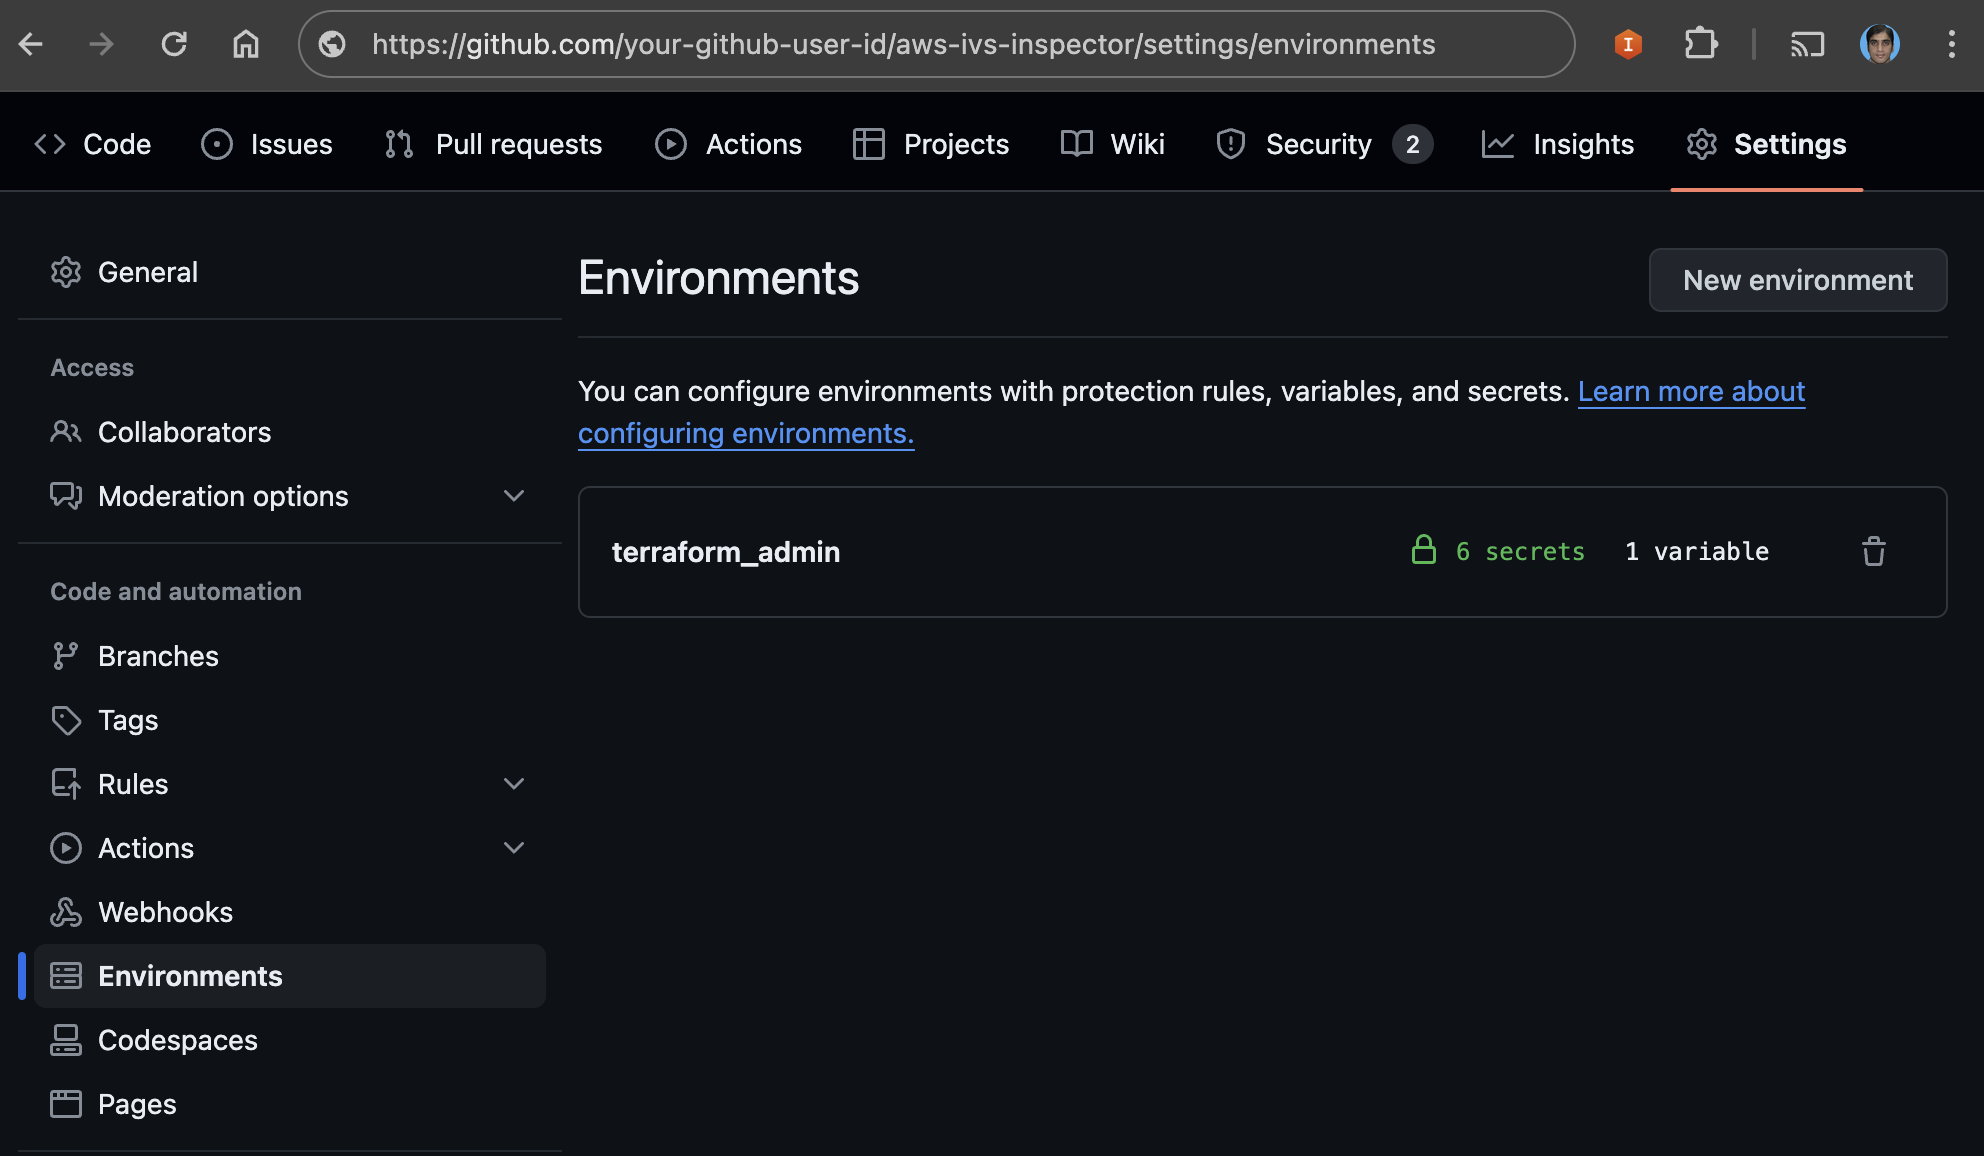
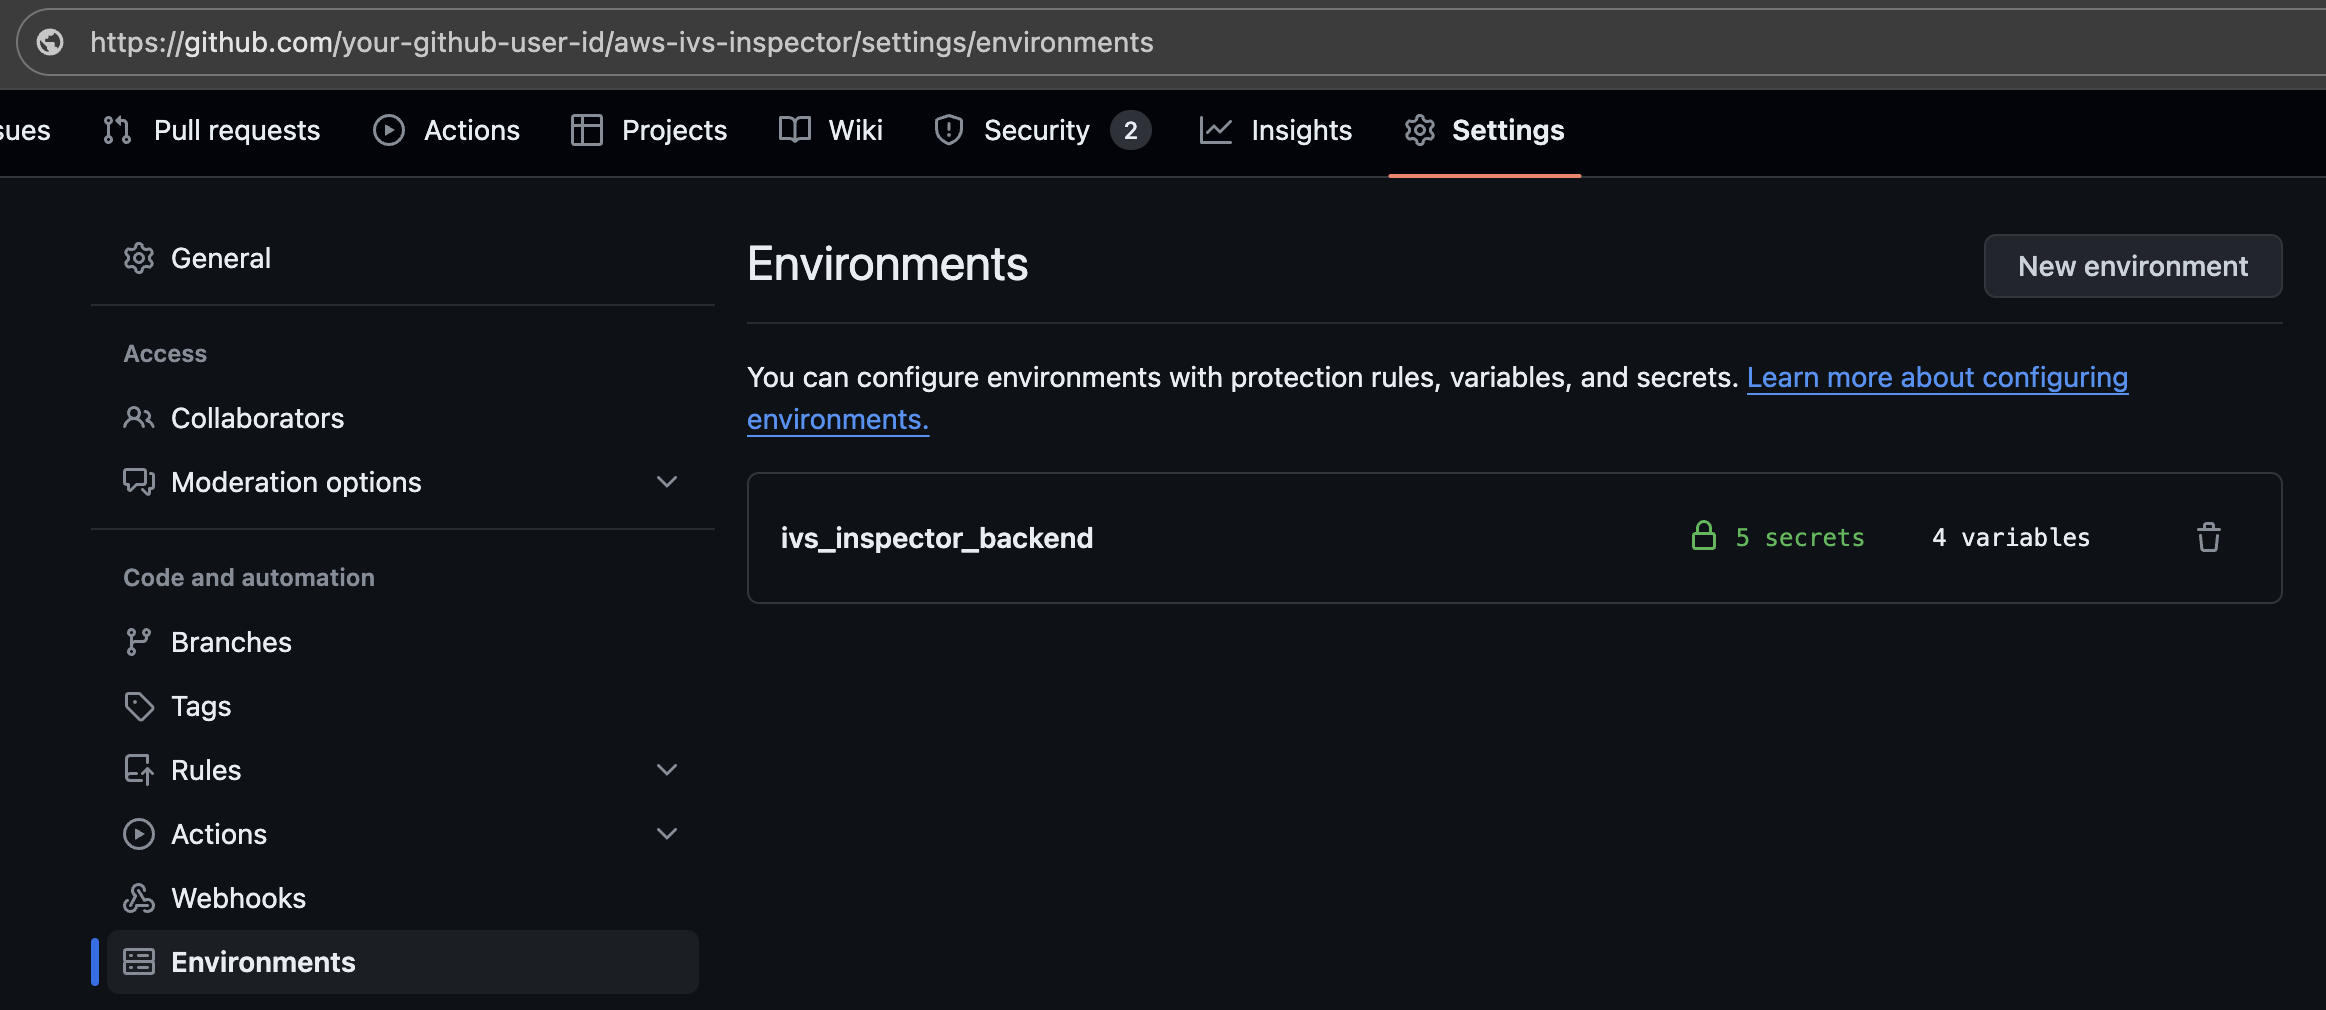
Readme updated - 1

diff --git a/web-application/src/pages/Settings.vue b/web-application/src/pages/Settings.vue
@@ -7,7 +7,7 @@
         </q-item-section>
 
         <q-item-section class="col-12 col-sm-auto">
-          <q-item-label> Setting CCV </q-item-label>
+          <q-item-label> Coming Soon </q-item-label>
         </q-item-section>
       </div>
       <q-separator />

diff --git a/README.md b/README.md
@@ -10,7 +10,7 @@
 
 1.) AWS Account & Permissions: You'll need an AWS account and the IAM user permissions with the `AdministratorAccess` policy required
 
-2.) Create an S3 bucket in your AWS account to store the Terraform-generated state file and the bucket name in GitHub secrets.
+2.) Create an S3 bucket in your AWS account to store the Terraform-generated state file and add the bucket name in GitHub secrets and bucket region in variables. Please refer the table at #6.
 
 3.) GitHub Permissions: Generate the GitHub personal token under user profile https://github.com/settings/tokens
 
@@ -35,20 +35,21 @@
 6.) Manually setting the GitHub Actions Secrets: <br>
 6.1.) Navigate to IVS Inspector repository > `Settings` > `Environments` <br>
 6.2.) Hover and click the `ivs_inspector_backend`, which you just created at `step #5` <br>
-6.3.) Click `Add environment secret` in Environment secrets. <br>
+6.3.) Click `Add environment secret` in Environment secrets and add all `Secret` type. <br>
+6.4.) Click `Add environment variable` in Environment secrets and add all `Variable` type. <br>
 
-| Name                              | Value                                                      |
-| :-------------------------------- | :--------------------------------------------------------- |
-| IVS_PROJECT_NAME                  | Default to `ivs-inspector` but you can define your own     |
-| AWS_ACCOUNT_ID                    | Your AWS Account ID                                        |
-| AWS_AMPLIFY_DEPLOYED_REGION       | Deploy the web application to a single region              |
-| AWS_ACCESS_KEY_ID                 | Temporary AWS Access key with Administrative access        |
-| AWS_SECRET_ACCESS_KEY             | Temporary AWS Secret Access key with Administrative access |
-| AWS_S3_BUCKET_FOR_TF_STATE        | Bucket that store the Terraform state file                 |
-| AWS_S3_BUCKET_FOR_TF_STATE_REGION | Region of the Bucket that store the Terraform state file   |
-| GH_PERSONAL_ACCESS_TOKEN          | Token that generated at #3                                 |
+| Type     | Name                              | Value                                                      |
+| :------- | :-------------------------------- | :--------------------------------------------------------- |
+| Secret   | AWS_ACCOUNT_ID                    | Your AWS Account ID                                        |
+| Secret   | AWS_ACCESS_KEY_ID                 | Temporary AWS Access key with Administrative access        |
+| Secret   | AWS_SECRET_ACCESS_KEY             | Temporary AWS Secret Access key with Administrative access |
+| Secret   | AWS_S3_BUCKET_FOR_TF_STATE        | Bucket that store the Terraform state file                 |
+| Secret   | GH_PERSONAL_ACCESS_TOKEN          | Token that generated at #3                                 |
+| Variable | AWS_S3_BUCKET_FOR_TF_STATE_REGION | Region of the Bucket that store the Terraform state file   |
+| Variable | IVS_PROJECT_NAME                  | Default to `ivs-inspector` but you can define your own     |
+| Variable | AWS_AMPLIFY_DEPLOYED_REGION       | Deploy the web application to a single region              |
 
-![04-AddSecrets.png](documentation/screenshots/04-AddSecrets.png)
+![04-AddSecretsAndVariables.png](documentation/screenshots/04-AddSecretsAndVariables.png)
 
 7.) Click the RunWorkflow for each workflow in sequence,
 
@@ -68,7 +69,7 @@
 
 ## Renaming Project Name
 
-The default project name, `ivs-inspector,` inherits from the repository/project. If you wish to change it, you may do so by changing the value of the secret variable `IVS_PROJECT_NAME` under the secrets tab found in the GitHub > Repository > `Settings` > `Secrets and variables` > `Actions`.
+The default project name, `ivs-inspector,` inherits from the repository/project. If you wish to change it, you may do so by changing the value of the variable `IVS_PROJECT_NAME` under the secrets tab found in the GitHub > Repository > `Settings` > `Secrets and variables` > `Actions`.
 
 ### Web Application Access
 
